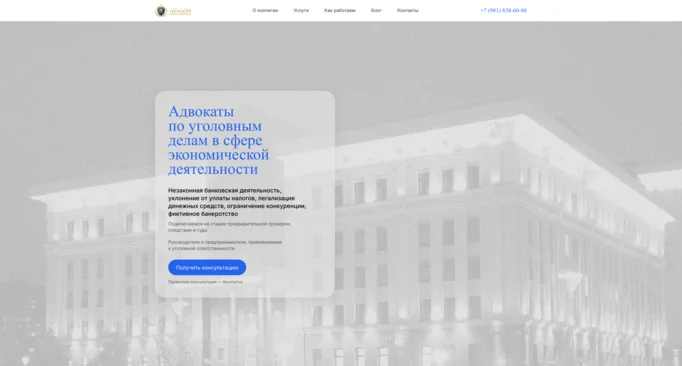
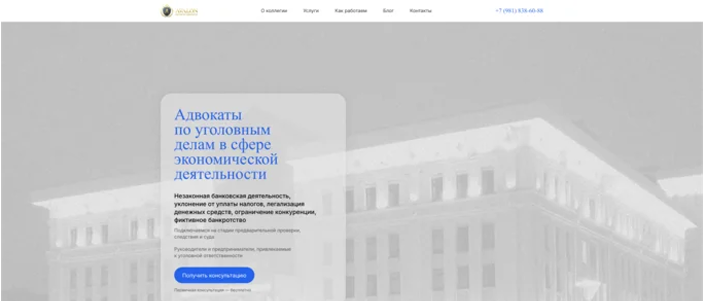
feat: article update

diff --git a/app/pages/avalon.vue b/app/pages/avalon.vue
@@ -35,6 +35,11 @@ useSeoMeta({
     чем хотелось. Кроме того, коллегия хотела публиковать статьи с разбором судебной практики.
   </p>
 
+  <figure>
+    <img src="~/assets/articles/avalon/old.webp" alt="Старый сайт коллегии"/>
+    <figcaption>Старый сайт коллегии</figcaption>
+  </figure>
+
   <h2>Что я сделал</h2>
   <p>
     Разработал новый дизайн, перенёс сайт с WordPress на самописное решение и развернул его.
@@ -49,6 +54,10 @@ useSeoMeta({
     Для редактирования блога я выбрал Decap CMS, систему на основе Git. Ей не нужен собственный бэкенд, поэтому сайту
     требуется меньше серверных мощностей, а значит, он дешевле в содержании.
   </p>
+  <figure>
+    <img src="~/assets/articles/avalon/admin.webp" alt="Админ-панель"/>
+    <figcaption>Админ-панель CMS</figcaption>
+  </figure>
   <p>
     Развернул я сайт на Timeweb Cloud, с которым работаю с 2023 года, на сервисе App Platform. Он сам собирает и
     выкладывает сайт, а оплата зависит от числа запросов. У сайта коллегии адвокатов вряд ли будет большая нагрузка,
@@ -57,6 +66,11 @@ useSeoMeta({
 
   <h2>Что получилось</h2>
   <p>Сайт запущен, заказчик доволен. <a href="https://avaloncollegium.com/">Ссылка на сайт</a></p>
+
+  <figure>
+    <img src="~/assets/articles/avalon/new.webp" alt="Новый сайт коллегии"/>
+    <figcaption>Новый сайт коллегии</figcaption>
+  </figure>
 
   <h2>Что было сложно</h2>
   <p>Первая трудность: App Platform отвечает кодом 200 на запросы несуществующих страниц. Из-за этого поисковые роботы
@@ -70,5 +84,17 @@ useSeoMeta({
 <style scoped>
 p {
   margin-block: 0.5em;
+}
+
+img {
+  max-width: min(100%, 43ch);
+  height: auto;
+  border-radius: var(--border-radius-default);
+}
+
+@media (min-width: 850px) {
+  img {
+    max-width: min(100%, 60ch);
+  }
 }
 </style>

diff --git a/app/app.vue b/app/app.vue
@@ -14,11 +14,12 @@
   margin-inline: auto;
   margin-top: 4rem;
   text-align: left;
-  max-width: 70ch;
+  max-width: var(--max-width);
   position: relative;
+  padding-bottom: 30vh;
 }
 .navigator {
-  position: absolute;
+  position: fixed;
   right: clamp(4rem, 8vw, 7rem);
   top: 0;
 }
@@ -33,6 +34,7 @@
     order: 1;
     width: 100%;
     padding-inline: 1.25rem;
+    padding-bottom: 5vh;
   }
 
   .navigator {
@@ -57,12 +59,13 @@
     grid-row: 1;
     width: 100%;
     min-width: 0;
+    padding-bottom: 15vh;
   }
 
   .navigator {
     grid-column: 2;
     grid-row: 1;
-    position: static;
+    position: fixed;
   }
 }
 </style>

diff --git a/app/assets/css/main.css b/app/assets/css/main.css
@@ -21,6 +21,7 @@
     --text-base: 1rem;       /* 16px */
     --text-title: 1.125rem;  /* 18px */
     --border-radius-default: 0.5rem;
+    --max-width: 70ch;
 }
 
 button {
@@ -68,4 +69,11 @@ h1 {
 h2, .cardTitle {
     font-size: var(--text-title);
     font-weight: normal;
+}
+
+figcaption {
+    color: #494949;
+    font-size: var(--text-small);
+    font-style: italic;
+    margin-bottom: 1em;
 }
